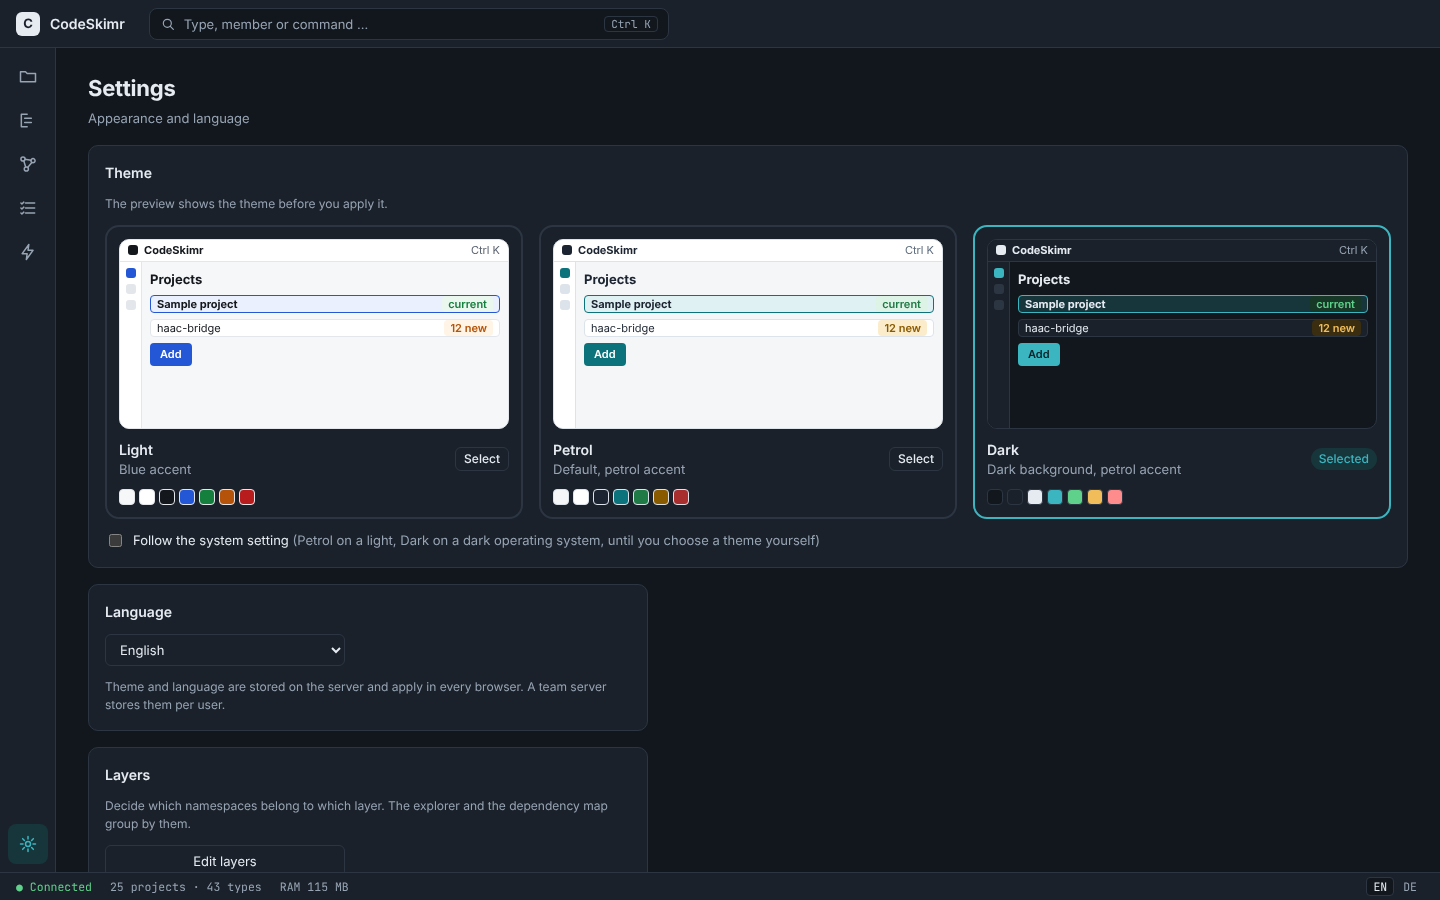
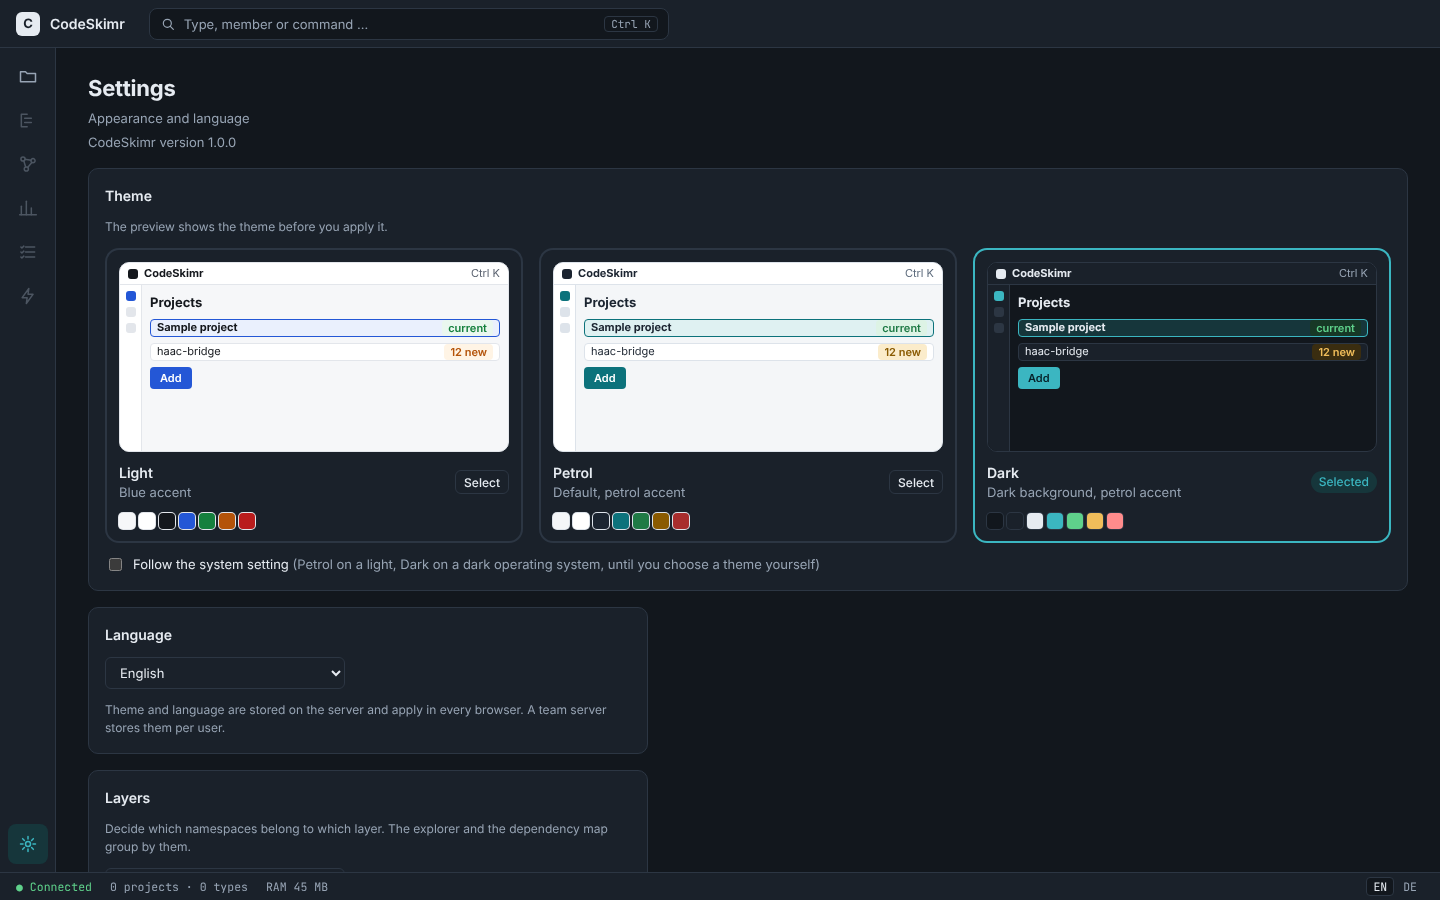
feat(ui): show the program version on the settings screen
Claude-Session: https://claude.ai/code/session_01GJNKFgf28JraqDt6AUTKHq

diff --git a/docs/mocks/Themes.dc.html b/docs/mocks/Themes.dc.html
@@ -88,7 +88,7 @@ tr.sel td{background:var(--accent-bg)}
 </header>
 <div class="body">
   <nav class="rail" aria-label="Ansichten"><a href="Main.dc.html" class="rb" aria-label="Projekte"><svg width="20" height="20" viewBox="0 0 24 24" fill="none" stroke="currentColor" stroke-width="1.8" stroke-linejoin="round" aria-hidden="true"><path d="M3 7h6l2 2h10v10H3z"/></svg></a><a href="Explorer.dc.html" class="rb" aria-label="Explorer"><svg width="20" height="20" viewBox="0 0 24 24" fill="none" stroke="currentColor" stroke-width="1.8" stroke-linejoin="round" aria-hidden="true"><path d="M4 5h7M8 10h8M8 15h8M4 20h7M4 5v15" stroke-linecap="round"/></svg></a><a href="Graph.dc.html" class="rb" aria-label="Abhängigkeiten"><svg width="20" height="20" viewBox="0 0 24 24" fill="none" stroke="currentColor" stroke-width="1.8" stroke-linejoin="round" aria-hidden="true"><circle cx="6" cy="6" r="2.5"/><circle cx="18" cy="8" r="2.5"/><circle cx="12" cy="18" r="2.5"/><path d="M8 7l8 1M7 8l4 8M17 10l-4 6"/></svg></a><a href="Scan.dc.html" class="rb" aria-label="Scans und Leistung"><svg width="20" height="20" viewBox="0 0 24 24" fill="none" stroke="currentColor" stroke-width="1.8" stroke-linejoin="round" aria-hidden="true"><path d="M13 3L5 14h6l-1 7 8-11h-6z"/></svg></a><div style="flex:1"></div><a href="Users.dc.html" class="rb" aria-label="Verwaltung"><svg width="20" height="20" viewBox="0 0 24 24" fill="none" stroke="currentColor" stroke-width="1.8" stroke-linejoin="round" aria-hidden="true"><path d="M12 3l8 3v6c0 4.5-3.4 8-8 9-4.6-1-8-4.5-8-9V6z"/><path d="M9 12l2 2 4-4" stroke-linecap="round"/></svg></a><a href="Themes.dc.html" class="rb on" aria-label="Einstellungen"><svg width="20" height="20" viewBox="0 0 24 24" fill="none" stroke="currentColor" stroke-width="1.8" stroke-linejoin="round" aria-hidden="true"><circle cx="12" cy="12" r="3"/><path d="M12 3v3M12 18v3M3 12h3M18 12h3M5.6 5.6l2.1 2.1M16.3 16.3l2.1 2.1M18.4 5.6l-2.1 2.1M7.7 16.3l-2.1 2.1" stroke-linecap="round"/></svg></a></nav>
-  <main class="main"><div class="row" style="align-items:flex-end"><div><h1>Einstellungen</h1><p class="sub">Darstellung und Sprache</p></div><div class="row" style="margin-left:auto"></div></div>
+  <main class="main"><div class="row" style="align-items:flex-end"><div><h1>Einstellungen</h1><p class="sub">Darstellung und Sprache</p><p class="sub">CodeSkimr-Version 1.0.0</p></div><div class="row" style="margin-left:auto"></div></div>
 <div class="panel pad" style="display:flex;flex-direction:column;gap:14px">
  <div><div class="h2">Theme</div><p class="note">Gilt für dein Konto auf jedem Gerät. Die Vorschau zeigt das Theme, bevor du es übernimmst.</p></div>
  <div class="grid" style="grid-template-columns:repeat(auto-fit,minmax(260px,1fr))">

diff --git a/web/src/features/settings/SettingsScreen.test.tsx b/web/src/features/settings/SettingsScreen.test.tsx
@@ -2,6 +2,8 @@ import { fireEvent, render, screen } from "@solidjs/testing-library";
 import { beforeEach, describe, expect, it, vi } from "vitest";
 import { setLanguage } from "../../shared/i18n/i18n";
 import { currentPath } from "../../app/router";
+import { answer, serve, useServerSession } from "../../tests/commands";
+import { refreshStatus } from "../status/status";
 import { SettingsScreen } from "./SettingsScreen";
 
 beforeEach(() => {
@@ -50,5 +52,16 @@ describe("SettingsScreen", () => {
     render(() => <SettingsScreen />);
     fireEvent.click(screen.getByRole("button", { name: "Edit layers" }));
     expect(currentPath()).toBe("/layers");
+  });
+});
+
+describe("the version on the settings screen", () => {
+  useServerSession();
+
+  it("is the one that codeskimr --version prints", async () => {
+    serve({ "status.info": () => answer({ version: "1.2.3" }) });
+    await refreshStatus();
+    render(() => <SettingsScreen />);
+    expect(screen.getByText("CodeSkimr version 1.2.3")).toBeInTheDocument();
   });
 });

diff --git a/web/src/features/settings/SettingsScreen.tsx b/web/src/features/settings/SettingsScreen.tsx
@@ -12,6 +12,7 @@ import { ThemeCard } from "./ThemeCard";
 import { LANGUAGES } from "../../shared/i18n/consts";
 import { LAYERS_ROUTE } from "../../app/consts";
 import { navigate } from "../../app/router";
+import { statusInfo } from "../status/status";
 
 /** The theme cards and the follow-system switch. */
 function ThemePanel() {
@@ -108,6 +109,11 @@ export function SettingsScreen() {
       <header>
         <h1>{t(I18N_KEYS.SETTINGS_TITLE)}</h1>
         <p class={styles.sub}>{t(I18N_KEYS.SETTINGS_SUBTITLE)}</p>
+        <Show when={statusInfo()?.version}>
+          {(version) => (
+            <p class={styles.sub}>{t(I18N_KEYS.SETTINGS_VERSION, { version: version() })}</p>
+          )}
+        </Show>
       </header>
       <ThemePanel />
       <LanguagePanel />

diff --git a/web/src/features/status/types.ts b/web/src/features/status/types.ts
@@ -2,6 +2,8 @@ import type { BudgetTargets } from "../scan/types";
 
 /** The output of `status.info`. */
 export interface StatusInfo {
+  /** The version of the program, as `codeskimr --version` prints it. */
+  version?: string;
   /** Milliseconds from the start of the program until the server answered. */
   startup_ms: number | null;
   /** Memory of the program in megabytes. */

diff --git a/web/src/shared/i18n/keys.ts b/web/src/shared/i18n/keys.ts
@@ -845,6 +845,7 @@ export const I18N_KEYS = {
   NAV_NEEDS_PROJECT: "nav-needs-project",
   SETTINGS_TITLE: "settings-title",
   SETTINGS_SUBTITLE: "settings-subtitle",
+  SETTINGS_VERSION: "settings-version",
   SETTINGS_THEME_TITLE: "settings-theme-title",
   SETTINGS_THEME_NOTE: "settings-theme-note",
   SETTINGS_THEME_NAME_HELL: "settings-theme-name-hell",

diff --git a/crates/app/src/ui_commands/status.rs b/crates/app/src/ui_commands/status.rs
@@ -12,7 +12,9 @@ use codeskimr_application::registry::{Command, CommandDescriptor, CommandId, Req
 use codeskimr_domain::Permission;
 use serde::Serialize;
 
-use super::consts::{BYTES_PER_MEGABYTE, STATUS_DESCRIPTION, STATUS_INFO, STATUS_TITLE};
+use super::consts::{
+    BYTES_PER_MEGABYTE, PROGRAM_VERSION, STATUS_DESCRIPTION, STATUS_INFO, STATUS_TITLE,
+};
 
 static STARTED: OnceLock<Instant> = OnceLock::new();
 static READY: OnceLock<Duration> = OnceLock::new();
@@ -32,6 +34,8 @@ pub fn mark_ready() {
 /// The measurements of the status bar.
 #[derive(Debug, Clone, Copy, PartialEq, Eq, Serialize)]
 pub struct StatusOut {
+    /// The version of the program, the one `codeskimr --version` prints (ADR 0092, gap 7).
+    pub version: &'static str,
     /// Milliseconds from the start of the program until the server answered; `None` if it was
     /// not measured (the server of a test).
     pub startup_ms: Option<u64>,
@@ -113,6 +117,7 @@ impl Command for StatusInfo {
     fn execute(&self, request: Request<'_, Self>) -> Result<StatusOut, CodedError> {
         access::require(request.principal, Permission::Read)?;
         Ok(StatusOut {
+            version: PROGRAM_VERSION,
             startup_ms: startup_ms(),
             memory_mb: memory_mb(),
             budgets: self.budgets,

diff --git a/crates/app/src/ui_commands/consts.rs b/crates/app/src/ui_commands/consts.rs
@@ -8,6 +8,8 @@ pub const PROJECTS_LIST: &str = "projects.list";
 pub const PROJECTS_ADD: &str = "projects.add";
 /// Id of the command that scans a registered project again.
 pub const PROJECTS_RESCAN: &str = "projects.rescan";
+/// The version of the program, as `codeskimr --version` prints it.
+pub const PROGRAM_VERSION: &str = env!("CARGO_PKG_VERSION");
 /// Id of the command that removes a project from the app.
 pub const PROJECTS_REMOVE: &str = "projects.remove";
 /// Id of the command that tells whether a folder dialog exists on this machine.

diff --git a/crates/app/src/ui_commands/tests.rs b/crates/app/src/ui_commands/tests.rs
@@ -701,6 +701,7 @@ fn the_status_reports_the_memory_of_the_program() {
     assert!(status["memory_mb"].as_u64().unwrap() > 0);
     assert!(status.get("startup_ms").is_some());
     assert!(status["workers"].as_u64().unwrap() >= 1);
+    assert_eq!(status["version"], env!("CARGO_PKG_VERSION"));
     assert_eq!(status["budgets"]["cold_start"], 300);
     assert_eq!(status["budgets"]["incremental_rescan"], 300);
 }

diff --git a/docs/ui.md b/docs/ui.md
@@ -148,7 +148,7 @@ Two Playwright files check the screens against blueprint 15.4 and 17.1; both run
 - `UPDATE_SCREENSHOTS=1 npm run e2e` writes the screens to `docs/screenshots/visual/` (`projects`, `explorer`, `search`, `settings`, `scan`, `usages`, `graph`, each in Hell, Petrol and Dunkel, and `frame-<theme>`) for the review by eye.
 - What the check found and fixed: the side column of the scan screen was 340 px wide instead of 300; the quick search was 860 px wide and 12 vh from the top instead of 880 px and 96 px, its input row was not 56 px high, its preview column was 260 px instead of 320 px and the active chip was blue instead of black; the frame grew with long content, so the status bar left the screen (the mocks scroll the main area only). The acceptance run of M3 (`docs/acceptance/m3.md`) found one more: with many hits the quick search shrank its input row to 27 px; the test now searches with 40 hits.
 - Not covered by a landmark: the names in the code (`Alt+click`) and the file and all-project hits of the quick search; unit tests of the screens cover them.
-- Settings (13): the theme card fills the width of the content and the language card is 560 px wide, as in the mock (landmarks tested); the editor card has no mock and is 560 px wide too.
+- Settings (13): the theme card fills the width of the content and the language card is 560 px wide, as in the mock (landmarks tested); the editor card has no mock and is 560 px wide too. Below the subtitle the screen shows the version of the program (`status.info` `version`, the counterpart of `codeskimr --version`, ADR 0092).
 
 ESLint (`web/eslint.literals.config.js`, issue #26): `consts.ts` is free of the literal rules only as the value of a `const`; `let`, `var`, other statements and function bodies are refused there. A number above 1 is refused everywhere else even when it is assigned to a `const` (`no-magic-numbers` alone lets that pass). `web/src/tests/eslint-literals.test.ts` runs the config on snippets.
 

diff --git a/docs/adr/0092-what-the-console-can-do-the-ui-can-do.md b/docs/adr/0092-what-the-console-can-do-the-ui-can-do.md
@@ -33,8 +33,8 @@ Option 3.
   - `serve`, `open`, `mcp`, `--console`, `--data-dir`, `--languages`, and `--config` and `--set` as start options: they decide how and where the program starts, before there is a UI. The UI may show them.
   - `--json`: output for scripts; the counterpart is the REST interface.
   - `--help`: the counterpart is the manual.
-- **Before 1.0:** gap 1 (button "Full scan", `projects.rescan` with `full`), gap 5 (a screen with the list of error codes) and of gap 6 the display of the settings in effect, read only.
-- **After 1.0:** gap 2 (with the background jobs and the live view), gap 3, gap 4 (the extension "Rules"), changing settings in the UI (the rest of gap 6; `--set` at the start stays a start option) and gap 7 (issue #690). Each needs its own package; gaps 2 and 3 need their own ADR.
+- **Before 1.0:** gap 1 (button "Full scan", `projects.rescan` with `full`), gap 5 (a screen with the list of error codes) of gap 6 the display of the settings in effect, read only, and gap 7 (the settings screen shows the version, issue #690; moved here from "after 1.0" on 2026-11-24).
+- **After 1.0:** gap 2 (with the background jobs and the live view), gap 3, gap 4 (the extension "Rules"), and changing settings in the UI (the rest of gap 6; `--set` at the start stays a start option). Each needs its own package; gaps 2 and 3 need their own ADR.
 
 ## Consequences
 

diff --git a/docs/manual/de/installation.md b/docs/manual/de/installation.md
@@ -9,6 +9,7 @@ CodeSkimr wird als **eine einzelne Datei je System** ausgeliefert (Windows x86_6
 1. Datei und `.sha256` herunterladen und die Prüfsumme vergleichen: Windows `Get-FileHash .\codeskimr-<Version>-windows-x86_64.exe -Algorithm SHA256`, Linux `sha256sum -c codeskimr-<Version>-linux-x86_64.sha256`, macOS `shasum -a 256 -c codeskimr-<Version>-macos-aarch64.sha256`.
 2. Optional die Herkunft prüfen: `gh attestation verify <Datei> --repo stacknoise/CodeSkimr` zeigt, dass GitHub die Datei aus diesem Repository gebaut hat.
 3. Starten. Linux und macOS: vorher `chmod +x <Datei>`. Dann `./codeskimr-<Version>-<System> serve`; unter Windows `.\codeskimr-<Version>-windows-x86_64.exe serve`. Sie können die Datei in `codeskimr` umbenennen und in einen Ordner Ihres Suchpfads legen.
+   Welche Version läuft, zeigt `codeskimr --version` in der Konsole und der Bildschirm „Einstellungen“ unter der Überschrift.
 
 Die Dateien sind **noch nicht signiert** (die Signierung kommt als Erstes nach 1.0). Deshalb warnt das Betriebssystem beim ersten Start:
 

diff --git a/docs/manual/en/installation.md b/docs/manual/en/installation.md
@@ -9,6 +9,7 @@ CodeSkimr is delivered as **one single file per system** (Windows x86_64, Linux 
 1. Download the file and its `.sha256` and compare the checksum: Windows `Get-FileHash .\codeskimr-<version>-windows-x86_64.exe -Algorithm SHA256`, Linux `sha256sum -c codeskimr-<version>-linux-x86_64.sha256`, macOS `shasum -a 256 -c codeskimr-<version>-macos-aarch64.sha256`.
 2. Optionally check the origin: `gh attestation verify <file> --repo stacknoise/CodeSkimr` shows that GitHub built the file from this repository.
 3. Start it. Linux and macOS: run `chmod +x <file>` first. Then `./codeskimr-<version>-<system> serve`; on Windows `.\codeskimr-<version>-windows-x86_64.exe serve`. You may rename the file to `codeskimr` and put it in a folder on your search path.
+   Which version is running is shown by `codeskimr --version` on the console and by the screen "Settings" below its heading.
 
 The files are **not signed yet** (signing is the first task after 1.0), so the operating system warns on the first start:
 
